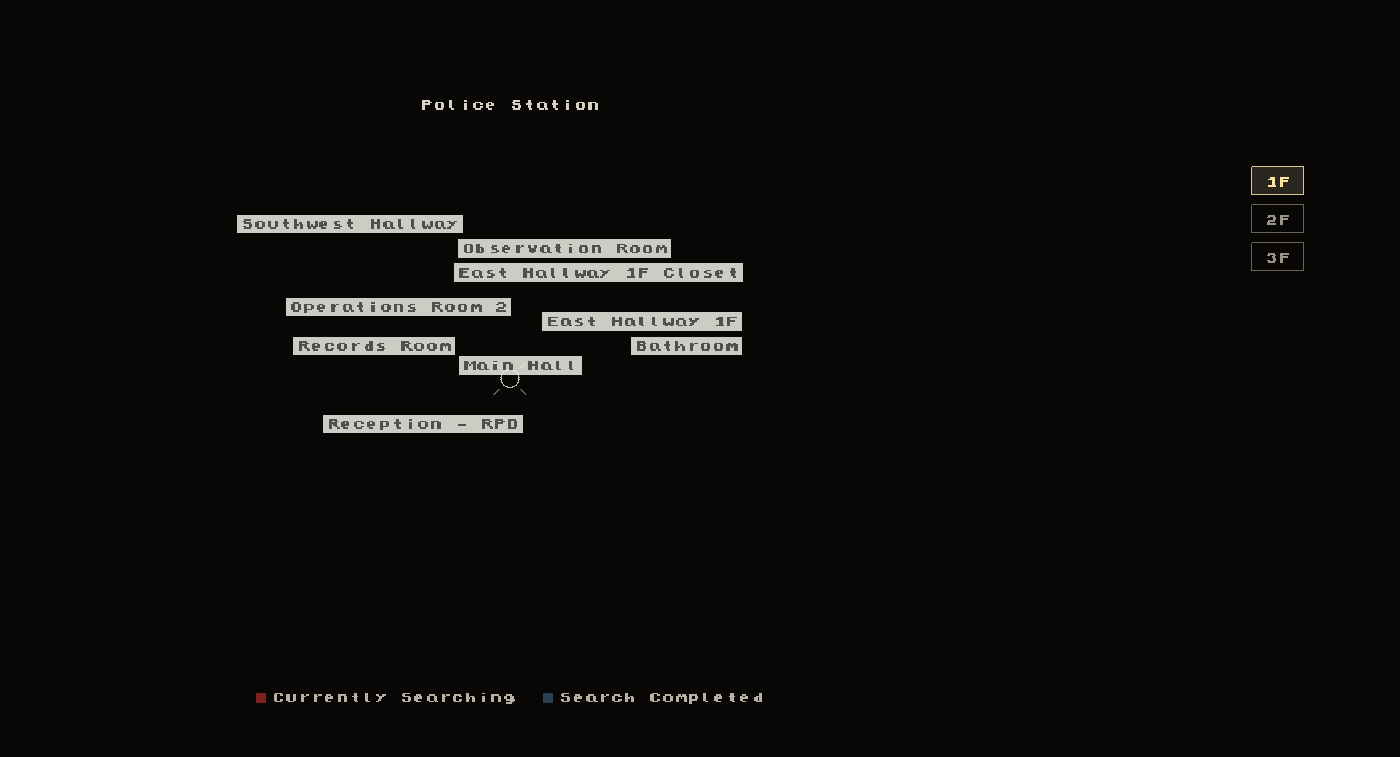
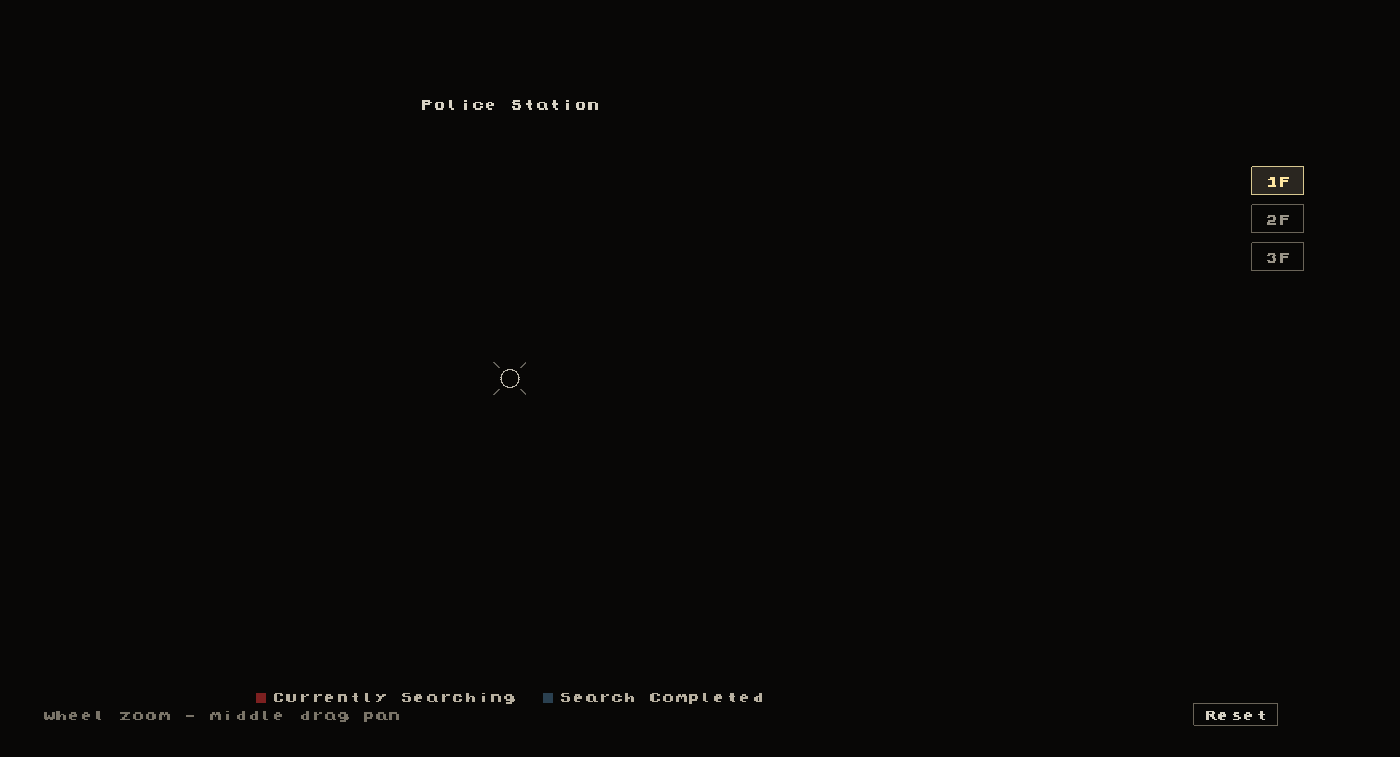
feat(re2map): reveal the 3F tab with the Upper Floors Map
The floor selector draws 1F and 2F from the start and only adds 3F once the
Upper Floors Map has revealed it, matching the video's 2F/1F selector. Clicks
on the hidden tab are ignored. The floors check confirms the hidden tab does
nothing, then reads the upper map and switches to 3F; the UI check reveals the
map before its 3F click.

diff --git a/native/src/rpd_overlay.c b/native/src/rpd_overlay.c
@@ -427,6 +427,7 @@ static void draw_map(void) {
     static const char *floor_labels[3] = { "1F", "2F", "3F" };
     int floor_count_ui = map_floor_count();
     for (int i = 0; i < floor_count_ui && i < 3; i++) {
+        if (i == 2 && !map_floor_revealed(2)) continue;
         float bx = (float)view_w - 148.0f;
         float by = (float)view_h * 0.22f + (float)i * 38.0f;
         floor_rect[i][0] = bx; floor_rect[i][1] = by;
@@ -471,6 +472,7 @@ int overlay_map_click(float x, float y) {
     }
     int count = map_floor_count();
     for (int i = 0; i < count && i < 3; i++) {
+        if (i == 2 && !map_floor_revealed(2)) continue;
         if (x >= floor_rect[i][0] && x <= floor_rect[i][2] &&
             y >= floor_rect[i][1] && y <= floor_rect[i][3]) {
             plan_set_floor_keep(i);
